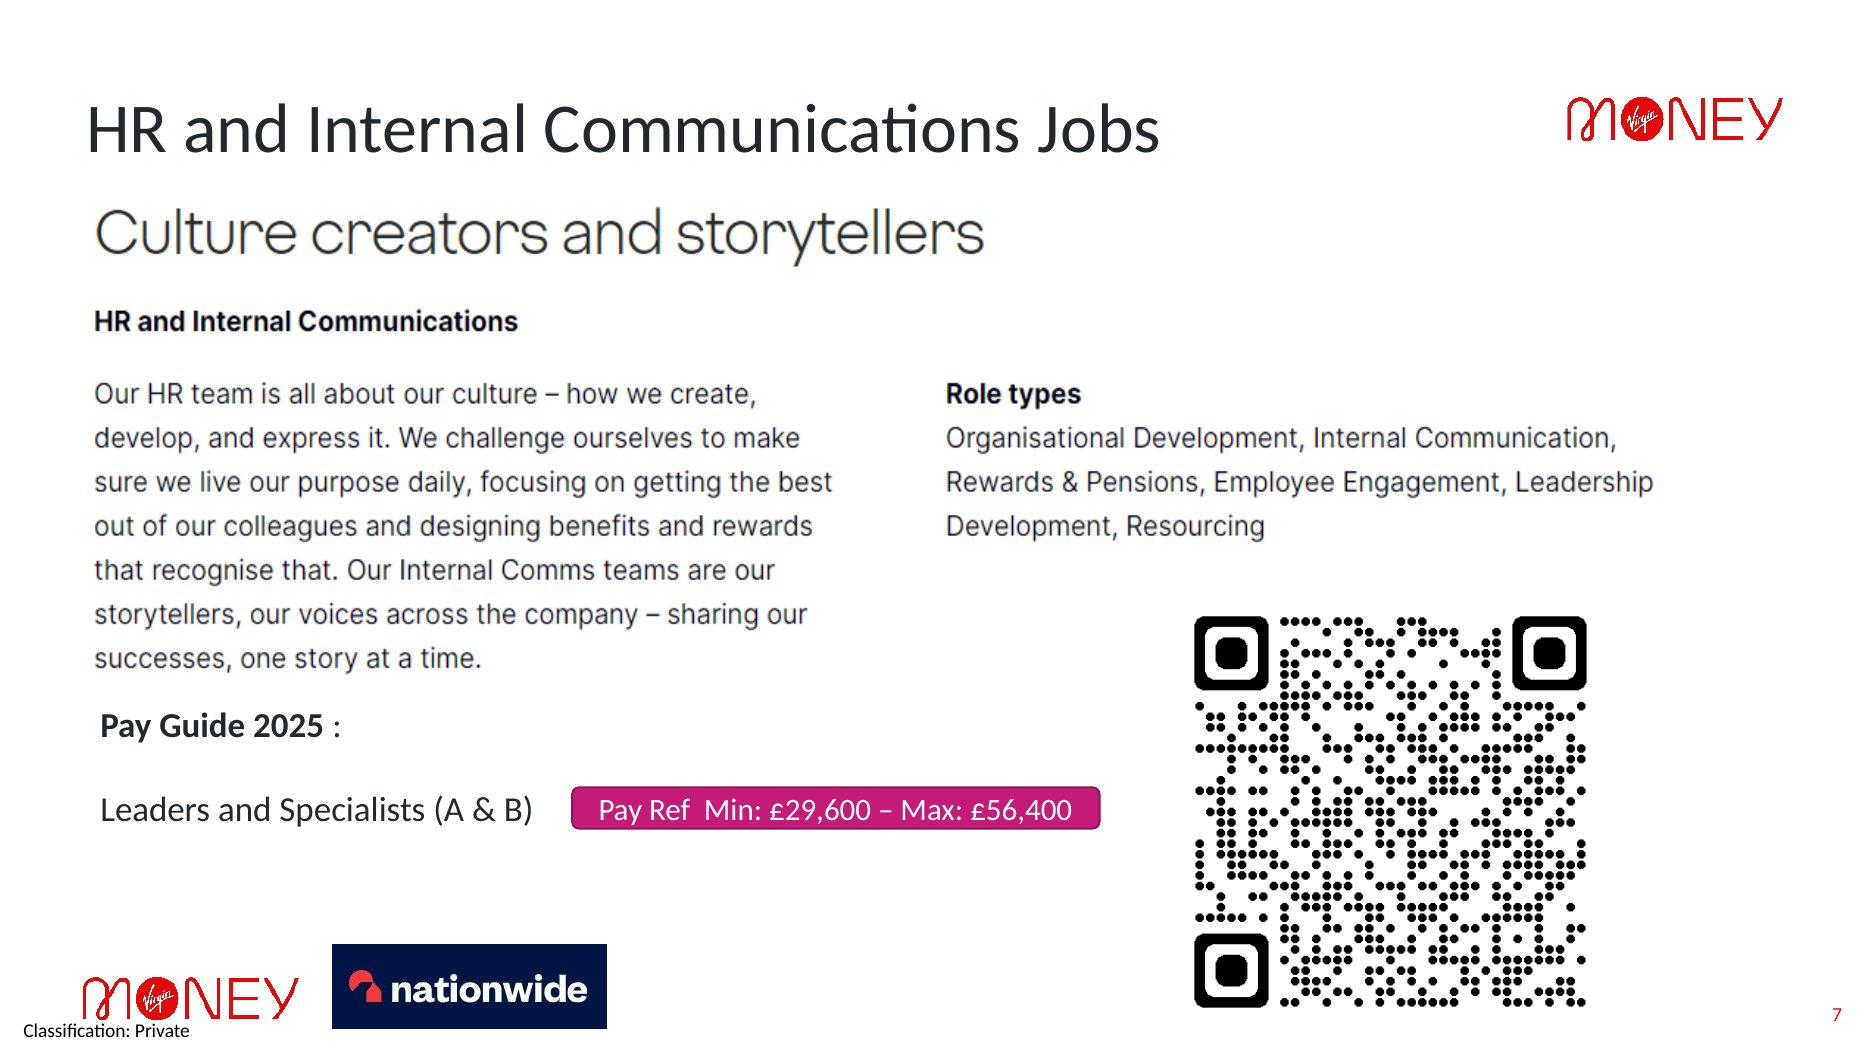
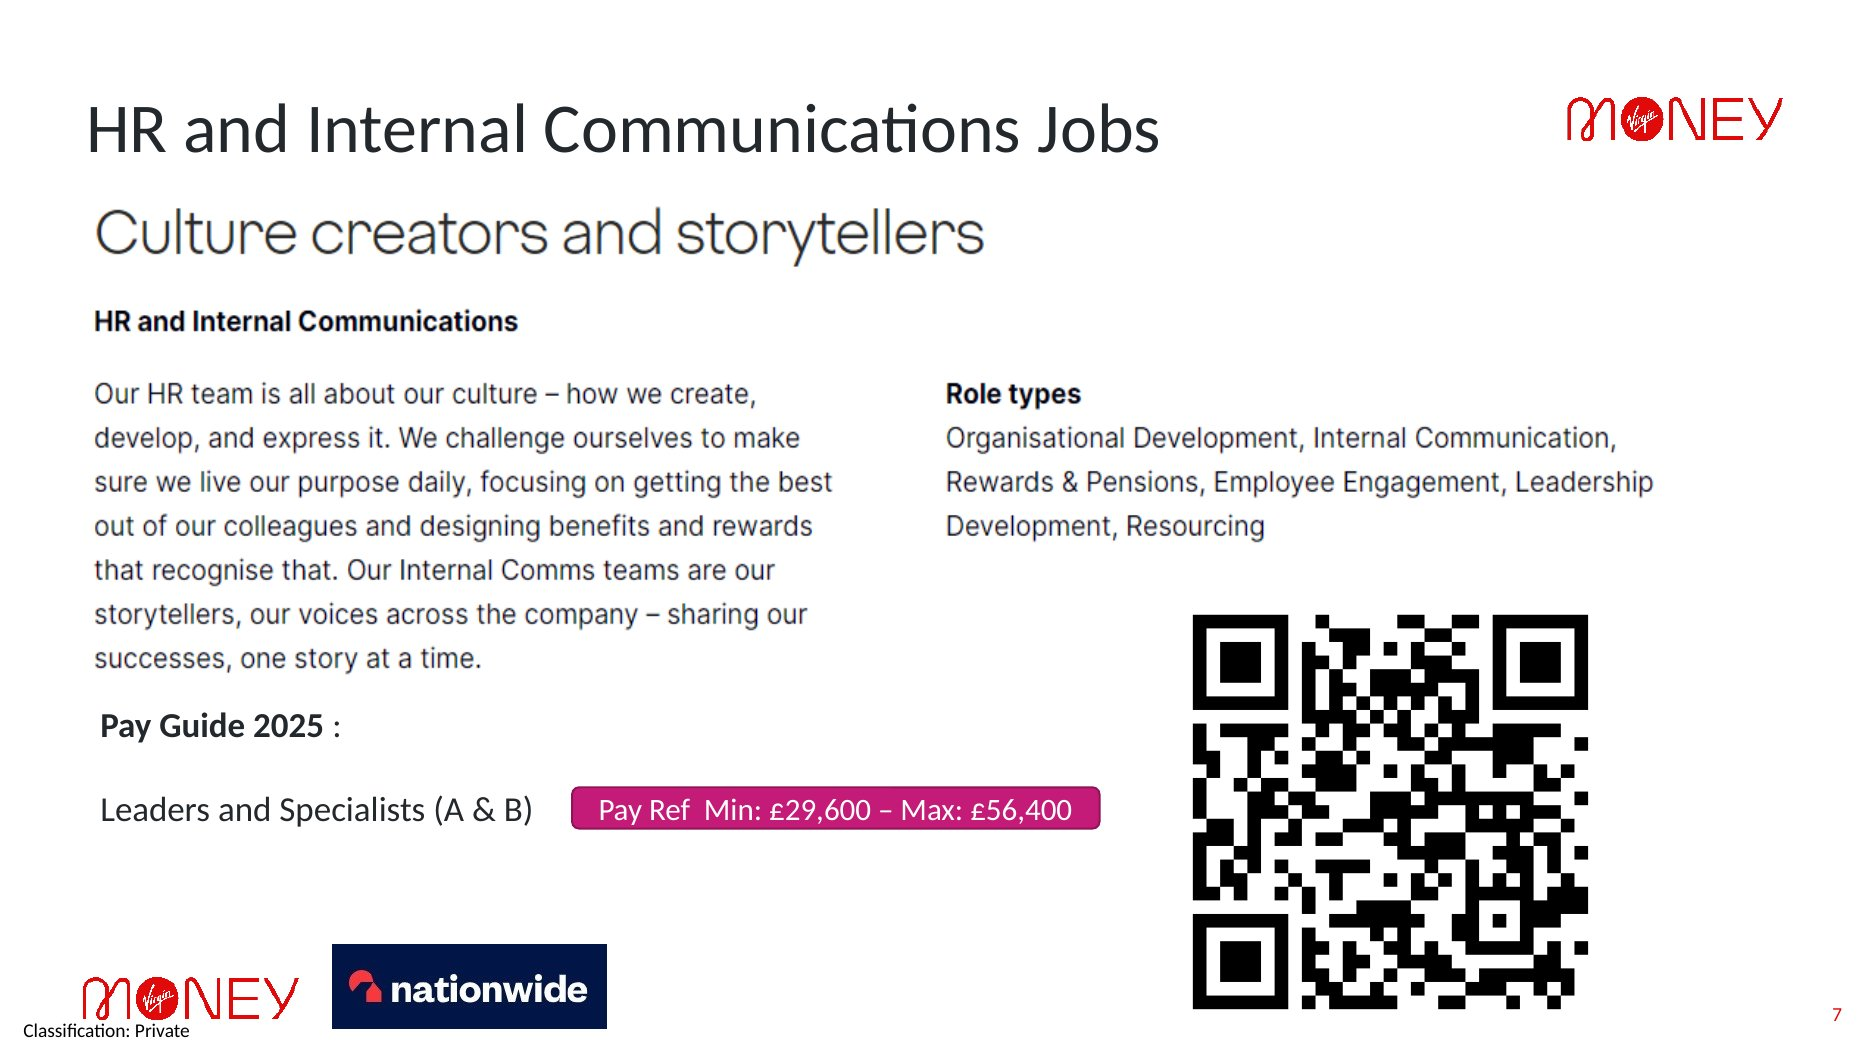
update the links from VM to NBS

Changed region(s): [[0.6213, 0.579, 0.8698, 0.9752]]

diff --git a/data.js b/data.js
@@ -1,7 +1,7 @@
 // Job families taken from the role slides (2–8) of "Careers within Virgin Money" (FY25).
 // Each skill carries weights (1–3) for the job families it matches.
 
-const CAREERS_URL = "https://careers.virginmoney.com/our-jobs";
+const CAREERS_URL = "https://nationwide-jobs.co.uk";
 
 const ROLES = {
   cs:   { title: "Customer Service and Administration", tagline: "Customer champions",

diff --git a/sw.js b/sw.js
@@ -1,6 +1,6 @@
 // Caches every file the app needs so it works with no internet connection.
 // Bump VERSION whenever you change any file, so devices pick up the update.
-const VERSION = "skills-matcher-v2";
+const VERSION = "skills-matcher-v3";
 const FILES = [
   "./",
   "index.html",

diff --git a/README.md b/README.md
@@ -2,13 +2,14 @@
 
 A small offline-capable web app: people pick up to 5 of 20 skills and see their best and second-best matching job families, each shown with its careers slide (including the QR code).
 
-This is designed purely to be a conversation starter, and to allow young people to see the range of careers available at Virgin Money and Nationwide
-
 Built from "Careers within Virgin Money" (FY25), role slides 2–8.
 
 ## Put it on GitHub Pages
 
-1. You can access this directly using the link https://ggilmour1.github.io/VM_NBS_Career-skill-matcher/ 
+1. On github.com, click **New repository**, call it e.g. `skills-matcher`, set it to **Public**, and create it.
+2. On the new repo page click **uploading an existing file**, drag in *everything in this folder* (keep the `slides` and `icons` folders), and click **Commit changes**.
+3. Go to **Settings → Pages**. Under *Build and deployment* choose **Deploy from a branch**, branch **main**, folder **/ (root)**, then **Save**.
+4. After a minute your link appears at the top of that page: `https://<your-username>.github.io/skills-matcher/`
 
 ## Use it offline on an iPad
 
